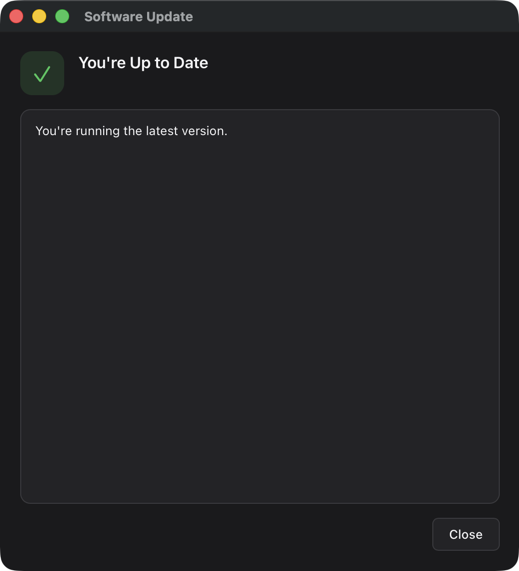
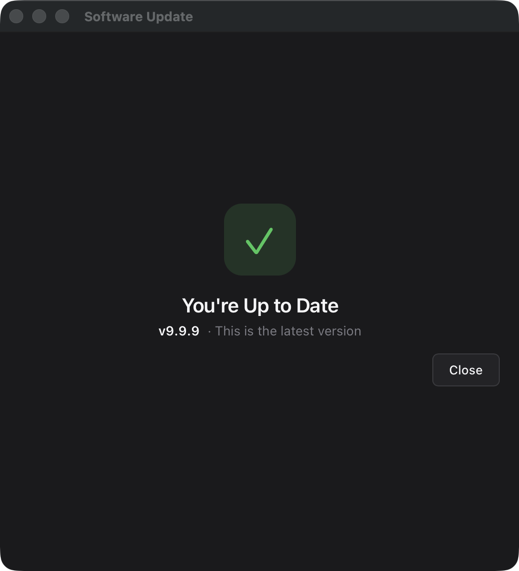
fix(updater): compact Up-to-Date layout + currentVersion now reaches the page
Two related issues with the Up-to-Date state:

* The state used to render the full default layout (left-aligned hero,
  full-height notes panel with "You're running the latest version."
  inside, footer). The notes panel was empty in this state — the
  message was one short sentence in a 540px tall window — so the
  whole window read as half-empty. Redesigned: hero stacks
  vertically with a larger 72px green ✓ icon centered, the version
  pill reuses the same .u__ver-to / .u__size styles as Update Ready
  so both states share visual rhythm, and the notes panel is gone
  for this state (HTML element removed; CSS rule removed too).

* The version line was a separate bug masked by the layout problem:
  the JS `currentVersion` variable was declared `null` and never
  assigned — the host had no way to push the running version into
  the page. That's why Update Available's "v1.0.0 → v2.0.1" pill
  was always missing the "v1.0.0 →" prefix in screenshots.
  Fixed by adding EventMeta with a Meta{CurrentVersion,
  SkippedVersion} payload, emitted from replayStateSnapshot before
  the state-specific event so the page has the context it needs
  before render. updater:meta listener stores both into module-
  level vars; existing onUpdateAvailable / renderSubtitle / onNoUpdate
  paths now pick them up.

Doc screenshots updated: default-window-up-to-date.png replaced with
the new compact layout. Image styles in the guide + tutorial switched
[…]

diff --git a/v3/pkg/updater/assets/window.html b/v3/pkg/updater/assets/window.html
@@ -84,6 +84,36 @@ body {
 .u--ready      .u__icon { background: rgba(52, 199, 89, 0.15); color: var(--success); }
 .u--up-to-date .u__icon { background: rgba(52, 199, 89, 0.15); color: var(--success); }
 .u--error      .u__icon { background: rgba(255, 59, 48, 0.15); color: var(--error); }
+
+/* === Up-to-date compact layout ===
+   This state is purely confirmational ("nothing to do here"). The
+   default left-aligned hero + empty notes panel reads as a half-filled
+   form. Center the hero vertically, stack icon-on-top, scale the icon
+   up, and hide the notes panel so the window doesn't show a giant
+   empty surface with one short sentence inside it. */
+.u--up-to-date {
+  justify-content: center;
+}
+.u--up-to-date .u__hero {
+  flex-direction: column;
+  align-items: center;
+  text-align: center;
+  gap: 16px;
+  margin-top: -12px; /* compensate for the missing notes block height */
+}
+.u--up-to-date .u__icon {
+  width: 72px;
+  height: 72px;
+  font-size: 40px;
+  border-radius: 18px;
+}
+.u--up-to-date .u__title { font-size: 20px; }
+.u--up-to-date .u__subtitle {
+  font-size: 13px;
+  justify-content: center;   /* center the version pill, since hero is centered */
+}
+.u--up-to-date .u__footer { justify-content: center; }
+.u--up-to-date .u__primary-actions { flex: 0 0 auto; }
 .u__head { flex: 1; min-width: 0; display: flex; flex-direction: column; gap: 2px; }
 .u__title {
   margin: 0;
@@ -321,10 +351,11 @@ body {
 .u[data-state="up-to-date"]   [data-show~="up-to-date"]   { display: flex; }
 .u[data-state="error"]        [data-show~="error"]        { display: flex; }
 
-/* Notes are block-flow content (markdown-rendered); never a flex container */
+/* Notes are block-flow content (markdown-rendered); never a flex container.
+   No up-to-date entry — that state uses the compact centered-hero layout
+   (see .u--up-to-date rules above) and renders no notes panel. */
 .u[data-state="available"] .u__notes[data-show~="available"],
-.u[data-state="ready"]     .u__notes[data-show~="ready"],
-.u[data-state="up-to-date"] .u__notes[data-show~="up-to-date"] {
+.u[data-state="ready"]     .u__notes[data-show~="ready"] {
   display: block;
 }
 
@@ -369,7 +400,8 @@ body {
   <div class="u__error" data-show="error" id="error-text">An error occurred.</div>
 
   <!-- Up-to-date message body -->
-  <div class="u__notes" data-show="up-to-date" id="up-to-date-msg">You're running the latest version.</div>
+  <!-- Up-to-Date state has no notes panel — the compact centered hero (.u--up-to-date) carries everything. -->
+
 
   <footer class="u__footer">
     <div class="u__secondary-actions">
@@ -493,6 +525,7 @@ body {
   var errored = false;
   var currentRelease = null;
   var currentVersion = null;
+  var skippedVersion = "";
 
   function setState(name) {
     if (errored && name !== "error") return false;
@@ -638,7 +671,20 @@ body {
   function onNoUpdate() {
     if (!setState("up-to-date")) return;
     els.title.textContent = "You're Up to Date";
-    els.subtitle.textContent = currentVersion ? "Running v" + currentVersion : "";
+    // Mirror the Update-Available subtitle pill shape: bold version on the
+    // left, dim explanatory text on the right. Reuses the same .u__ver-to
+    // and .u__size styles so both states share the visual rhythm.
+    els.subtitle.innerHTML = "";
+    if (currentVersion) {
+      var v = document.createElement("span");
+      v.className = "u__ver-to";
+      v.textContent = "v" + currentVersion;
+      els.subtitle.appendChild(v);
+    }
+    var msg = document.createElement("span");
+    msg.className = "u__size";
+    msg.textContent = (currentVersion ? "· " : "") + "This is the latest version";
+    els.subtitle.appendChild(msg);
   }
   function onDownloadStarted(rel) {
     if (!setState("downloading")) return;
@@ -688,6 +734,11 @@ body {
   }
 
   /* === Wire up === */
+  Events.on("updater:meta", function (e) {
+    var m = e && (e.data != null ? e.data : e);
+    if (m && typeof m.currentVersion === "string") currentVersion = m.currentVersion;
+    if (m && typeof m.skippedVersion === "string") skippedVersion = m.skippedVersion;
+  });
   Events.on("updater:check-started",     function () { onCheckStarted(); });
   Events.on("updater:update-available",  function (e) { onUpdateAvailable(e && (e.data != null ? e.data : e)); });
   Events.on("updater:no-update",         function () { onNoUpdate(); });

diff --git a/v3/pkg/updater/window_lifecycle.go b/v3/pkg/updater/window_lifecycle.go
@@ -101,11 +101,27 @@ func (u *Updater) openSession(ctx context.Context) *windowSession {
 // current state. The default window subscribes to these events for normal
 // updates; replaying the latest one whenever the window asks for a snapshot
 // is enough for it to render correctly on (re)open.
+//
+// EventMeta is emitted first so the page has the host-side context
+// (currentVersion, skipped version) before the state-specific event lands —
+// the default template's renderSubtitle uses currentVersion to draw the
+// "from" version in the Update Available pill and the "v1.2.3 · This is
+// the latest version" pill in the Up-to-Date state.
 func (u *Updater) replayStateSnapshot() {
 	u.mu.RLock()
 	state := u.state
 	pending := u.pending
+	currentVersion := ""
+	if u.cfg != nil {
+		currentVersion = u.cfg.CurrentVersion
+	}
+	skipped := u.skipped
 	u.mu.RUnlock()
+
+	u.host.Emit(EventMeta, Meta{
+		CurrentVersion: currentVersion,
+		SkippedVersion: skipped,
+	})
 
 	switch state {
 	case StateChecking:

diff --git a/v3/pkg/updater/events.go b/v3/pkg/updater/events.go
@@ -38,4 +38,18 @@ const (
 
 	// EventError fires whenever any stage fails. Payload: ErrorInfo.
 	EventError = "updater:error"
+
+	// EventMeta fires once per session before the first state-snapshot
+	// replay, carrying host-side context the page can't derive from any
+	// Release: the version currently running, and the version the user
+	// has marked skipped (or "" if none). Payload: Meta.
+	EventMeta = "updater:meta"
 )
+
+// Meta is the payload of EventMeta — host-side context the default window
+// template uses to render the "from" version in the update pill and the
+// "v1.2.3 · This is the latest version" pill in the up-to-date state.
+type Meta struct {
+	CurrentVersion string `json:"currentVersion"`
+	SkippedVersion string `json:"skippedVersion,omitempty"`
+}